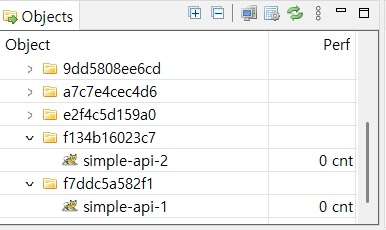
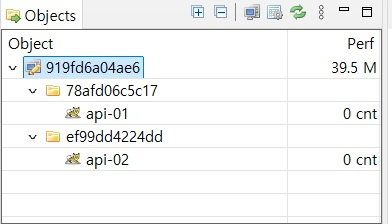
스카우터 포스팅 3편 리라이팅

Changed region(s): [[0.0, 0.0, 1.0, 1.0], [0.4663, 0.0, 0.9637, 0.0938], [0.9948, 0.0, 1.0, 0.0312]]

diff --git a/_posts/2026-08-03-paygerduty3.md b/_posts/2026-08-03-paygerduty3.md
@@ -11,37 +11,19 @@ tags:
   - 자바
 ---
 
-모니터링 대상 애플리케이션에 `Scouter Agent` 연동이 완료되었습니다. 이제 `Scouter Server`에는 애플리케이션의 운영 정보가 실시간으로 수집됩니다.
-
-이번에는 `Scouter Client`를 설치하고, 수집된 운영 정보를 확인하는 방법을 살펴보겠습니다.
+`Scouter Agent`는 모니터링 대상 애플리케이션의 운영 정보를 수집하여 `Scouter Server`로 전송합니다. 사용자는 `Scouter Client`를 통해 `Scouter Server`에 접속하여 수집된 운영 정보를 실시간으로 확인할 수 있습니다.
 
 ---
 
 ## 1. Scouter Client 준비
 
-`Scouter Client`를 통해 `Scouter Server`에 접속해보겠습니다.
+앞선 포스팅에서 사용했던 Scouter 2.20.0 배포 파일인 `scouter-all-2.20.0.tar.gz`에는 Scouter Client가 포함되어 있지 않습니다.
 
-먼저 `Scouter Client`를 다운로드하고 실행합니다.
-
----
-
-### 1.1. Scouter Client 다운로드
-
-이전 포스팅과 동일하게 `Scouter` 프로젝트의 공식 GitHub 저장소의 `release` 브랜치에서 `2.17.1` 태그를 선택했습니다.
-
-* [https://github.com/scouter-project/scouter](https://github.com/scouter-project/scouter)
-
-<img class="sub-image" src="/assets/images/scouter-release-tags.jpg" alt="Scouter 프로젝트 Release 브랜치의 Tag 목록">
-
-그리고 페이지 하단의 **Assets**에서 `scouter.client.product-win32.win32.x86_64.zip` 파일을 다운로드했습니다.
-
-<img class="sub-image" src="/assets/images/scouter-assets2.jpg" alt="Scouter 2.17.1 배포 버전의 Assets 목록">
-
-운영체제에 따라 제공되는 Client 파일이 다르므로 Windows가 아니라면 자신의 운영체제에 맞는 패키지를 다운로드하면 됩니다.
+따라서 Scouter 공식 GitHub의 [v2.20.0 Releases 페이지](https://github.com/scouter-project/scouter/releases/tag/v2.20.0)에서 운영체제에 맞는 `Scouter Client`를 별도로 다운로드했습니다. 사용하는 운영체제가 Windows인 경우에는 `scouter.client.product-win32.win32.x86_64.zip` 파일을 선택하면 됩니다.
 
 ---
 
-### 1.2. 압축 해제
+### 1.1. Scouter Client 파일 배치
 
 다운로드한 파일의 압축을 해제하면 `scouter.client` 디렉터리가 생성됩니다.
 
@@ -51,11 +33,11 @@ tags:
 
 ---
 
-### 1.3. Scouter Client 실행
+### 1.2. Scouter Client 실행
 
-그리고 `scouter.client` 디렉터리에 있는 `scouter.exe` 파일을 실행했습니다. 하지만 기대와 다르게 Windows의 PC 보호 경고창이 나타났습니다. `Scouter Client`가 출처를 알 수 없는 애플리케이션으로 분류되어 실행이 차단되는 것 같았습니다. 
+`scouter.client` 디렉터리에서 `scouter.exe` 파일을 실행하면 기대와 다르게 Windows의 PC 보호 경고창이 나타났습니다. `Scouter Client`가 출처를 알 수 없는 애플리케이션으로 분류되어 실행이 차단되기 때문입니다.
 
-하지만 경고 메시지 하단의 추가정보를 클릭하면 실행 버튼을 활성화할 수 있습니다.
+이런 경우에는 경고 메시지 하단의 추가 정보를 클릭하면 실행 버튼을 활성화할 수 있습니다. 하지만 실행 버튼을 클릭하기 전에 공식 GitHub 저장소에서 다운로드한 파일인지 반드시 확인하는 것이 안전합니다.
 
 <div class="image-row">
   <figure>
@@ -69,96 +51,79 @@ tags:
   </figure>
 </div>
 
-**주의**
-
-> 실행 버튼을 클릭하기 전에 공식 GitHub 저장소에서 다운로드한 파일인지 반드시 확인하는 것이 안전합니다.
-
 실행 버튼을 클릭하자 `Scouter Client`의 로그인 화면이 나타났습니다.
 
 <img class="main-image" src="/assets/images/scouter.login.png" alt="scouter 서버 정보 입력창">
 
-`Server Address`에는 `Scouter Server`가 실행되고 있는 주소인 192.168.56.13:6100을 입력했습니다. 또한 `ID`와 `Password`에는 기본 계정인 `admin` / `admin`을 입력했습니다. 그리고 OK 버튼을 클릭해서 정상적으로 로그인할 수 있었습니다.
+`Server Address`에는 `Scouter Server`가 실행되고 있는 서버의 IP(192.168.56.13:6100)를 입력하고, `ID`와 `Password`에는 기본 계정인 `admin` / `admin`을 입력했습니다. OK 버튼을 클릭하자 정상적으로 로그인할 수 있었습니다.
+
+**참고**
+
+> 실제 운영 환경에서는 기본 비밀번호를 그대로 사용하지 않는 것이 좋습니다.
 
 ---
 
 ## 2. 운영 정보 확인
 
-로그인이 완료되면 Scouter Client에서 서버 전체의 상태와 선택된 애플리케이션의 상태를 함께 확인할 수 있습니다.
+로그인이 완료되면 `Scouter Client`에서 서버 전체의 상태와 선택된 애플리케이션의 상태를 함께 확인하는 기본 화면이 제공됩니다.
 
 <img class="sub-image" src="/assets/images/scouter1.jpg" alt="Scouter Client 기본 모니터링 화면">
-
-기본 화면에는 Linux 서버의 CPU, 메모리, 디스크, 네트워크 등 서버 전체의 자원 사용 현황이 표시됩니다.
-
-또한 Heap Memory, Active Service, XLog와 같은 애플리케이션 수준의 정보도 함께 표시되며, 이러한 정보는 Object Tree에서 선택된 애플리케이션을 기준으로 제공됩니다.
 
 ---
 
 ### 2.1. Object Tree
 
-좌측의 Object Tree에서 `Scouter Server`에 등록되어 있는 모니터링 대상 애플리케이션의 목록을 확인하고 선택할 수 있습니다.
+Object Tree 창에서는 `Scouter Server`가 운영 정보를 수집하고 있는 모니터링 대상 애플리케이션의 목록을 확인하고 선택할 수 있습니다.
 
-<img class="main-image" src="/assets/images/objecttree.jpg" alt="Scouter Object Tree">
+<img class="main-image" src="/assets/images/objecttree.jpg" alt="Object Tree">
 
-위 화면을 보면 많은 애플리케이션이 표시되어 있습니다. 하지만 현재 실행되고 있는 애플리케이션은 다음의 두 개뿐입니다.  
+현재 모니터링 대상 애플리케이션은 다음과 같습니다.  
 
-* f7ddc5a582f1 → simple-api-1
-* f134b16023c7 → simple-api-2
+* `78afd06c5c17` → `api-01`
+* `ef99dd4224dd` → `api-02`
 
-나머지 항목은 토이프로젝트를 진행하면서 생성했던 애플리케이션 컨테이너들입니다. 현재는 실행이 종료되었지만, Scouter는 이전에 수집했던 Object 정보를 유지하기 때문에 Object Tree에 계속 남아 있습니다.
+`78afd06c5c17`, `ef99dd4224dd`은 애플리케이션 컨테이너에 부여된 **hostname**입니다. `Scouter Agent` 연동 이후에 애플리케이션 컨테이너의 실행과 종료를 반복했다면, 더 많은 애플리케이션 정보가 Object Tree에 남아 있을 수 있습니다. 애플리케이션 컨테이너가 종료되더라도 `Scouter Server`에는 이전에 수집된 정보가 일정 기간 남아 있을 수 있기 때문입니다.
 
-앞부분의 `f7ddc5a582f1`, `f134b16023c7`은 Docker가 컨테이너에 부여한 **hostname**입니다. 뒤에 표시되는 `simple-api-1`, `simple-api-2`는 Docker Compose의 `JAVA_TOOL_OPTIONS`를 통해 `-Dobj_name`으로 지정한 이름입니다. 동일한 호스트에서 여러 애플리케이션 인스턴스를 실행하더라도 `obj_name`을 통해 각 인스턴스를 쉽게 구분할 수 있습니다.
+`api-01`, `api-02`는 애플리케이션 컨테이너를 구분하기 위해 Docker Compose의 `JAVA_TOOL_OPTIONS`를 통해 `-Dobj_name`으로 지정했던 이름입니다. 
 
 ---
 
-### 2.2. CPU - Linux(서버의 CPU 사용률)
+### 2.2. Active Service EQ(현재 처리 중인 요청)
 
-CPU - Linux 창에서는 `Scouter Agent`가 실행 중인 Linux 서버의 CPU 사용률을 실시간으로 확인할 수 있습니다.
+Active Service EQ 창에서는 현재 처리 중인 요청(Active Service)의 개수 변화를 실시간으로 확인할 수 있습니다.
 
-<img class="main-image" src="/assets/images/cpu.jpg" alt="CPU - Linux">
+<img class="main-image" src="/assets/images/active-service.jpg" alt="Active Service EQ">
 
-이 그래프는 특정 애플리케이션이 아니라 서버 전체의 CPU 사용률을 나타냅니다. 따라서 Object Tree에서 `simple-api-1`이나 `simple-api-2`를 선택하지 않아도 항상 표시됩니다.
+현재는 모니터링 대상 애플리케이션으로 유입되는 요청이 없는 상태이기 때문에 처리 중인 요청의 개수도 0으로 표시됩니다. 하지만 많은 요청이 동시에 유입되거나, 일부 요청의 처리 시간이 길어지면 처리 중인 요청의 개수가 빠르게 증가하는 모습을 확인할 수 있습니다.
 
-CPU 사용률이 지속적으로 높게 유지된다면 서버 전체에 부하가 발생하고 있는 상황일 수 있습니다. 반대로 CPU 사용률은 낮은데 특정 애플리케이션의 응답 시간이 느리다면 애플리케이션 내부의 병목이나 외부 시스템 호출을 의심해볼 수 있습니다.
-
-현재는 두 개의 애플리케이션이 동일한 Linux 서버에서 실행되고 있기 때문에 CPU - Linux 창은 하나만 표시됩니다.
+만약 이 수치가 지속적으로 높은 상태를 유지한다면, 애플리케이션이 요청을 제때 처리하지 못하고 있을 가능성이 있습니다. 이러한 경우에는 데이터베이스 조회 지연, 외부 API 호출 지연, 스레드 부족, 락 경합 등 요청 처리가 지연되는 원인이 없는지 함께 확인해 보는 것이 좋습니다.
 
 ---
 
 ### 2.3. Heap Used(JVM Heap 사용량)
 
-Heap Memory 창에서는 Object Tree에서 선택된 애플리케이션의 JVM Heap 사용량을 실시간으로 확인할 수 있습니다.
+Heap Used 창에서는 Object Tree에서 선택된 애플리케이션의 JVM Heap 사용량 변화를 실시간으로 확인할 수 있습니다.
 
-로그인 직후에는 `Scouter Client`가 기본적으로 하나의 애플리케이션을 선택하기 때문에 별도로 선택하지 않아도 Heap 사용량이 표시됩니다. 다른 애플리케이션을 선택하면 해당 애플리케이션의 Heap 사용량으로 화면이 변경됩니다.
+<img class="main-image" src="/assets/images/heap-memory.jpg" alt="Heap Used">
 
-<img class="main-image" src="/assets/images/heap-memory.jpg" alt="Heap Memory">
+일반적으로 요청을 처리하면서 점차 증가하다가, Garbage Collection(GC)이 수행되면 사용하지 않는 객체가 정리되면서 다시 감소하는 모습을 확인할 수 있습니다.
 
-그래프는 시간이 지남에 따라 Heap 사용량이 어떻게 변화하는지를 보여줍니다. 일반적으로 요청을 처리하면서 점차 증가하다가, Garbage Collection(GC) 이 수행되면 사용하지 않는 객체가 정리되면서 다시 감소하는 모습을 확인할 수 있습니다.
+만약 Heap 사용량이 지속적으로 증가하고 GC 이후에도 거의 줄어들지 않는다면 메모리 누수(Memory Leak)를 의심해볼 수 있습니다. 또한 Heap 사용량이 최대치에 자주 도달한다면 애플리케이션의 메모리 사용 패턴과 GC 동작을 분석하고, 필요한 경우 JVM Heap 크기가 적절한지도 함께 검토할 필요가 있습니다.
 
-Heap 사용량이 지속적으로 증가하고 GC 이후에도 거의 줄어들지 않는다면 메모리 누수(Memory Leak)를 의심해볼 수 있습니다. 또한 Heap 사용량이 최대치에 자주 도달한다면 JVM Heap 크기를 조정하거나 애플리케이션의 메모리 사용 패턴을 분석할 필요가 있습니다.
+**참고**
 
----
-
-### 2.4. Active Service(현재 처리 중인 요청)
-
-Active Service 창에서는 현재 처리 중인 요청(Active Service)의 개수를 실시간으로 확인할 수 있습니다.
-
-<img class="main-image" src="/assets/images/active-service.jpg" alt="Active Service">
-
-그래프에는 시간에 따른 Active Service의 변화가 표시됩니다. 위 화면은 애플리케이션으로 유입되는 요청이 없는 상태에서 캡처한 화면이므로 Active Service도 0으로 표시됩니다.
-
-반대로 많은 요청이 동시에 유입되거나 일부 요청의 처리 시간이 길어지면 Active Service가 빠르게 증가하는 모습을 확인할 수 있습니다.
-
-만약 Active Service가 지속적으로 높은 상태를 유지한다면 애플리케이션이 요청을 제때 처리하지 못하고 있을 가능성이 있습니다. 이 경우에는 데이터베이스 조회 지연, 외부 API 호출 지연, 스레드 부족, 락 경합 등 요청 처리가 지연되는 원인이 없는지 함께 확인해 보는 것이 좋습니다.
+> Object Tree에서 애플리케이션을 클릭하면 모니터링할 애플리케이션을 선택하거나 선택을 해제할 수 있습니다.
 
 ---
 
-### 2.5. XLog(요청 처리 이력)
 
-XLog는 애플리케이션에서 처리된 요청의 실행 이력을 확인할 수 있는 기능입니다.
+### 2.4. XLog(요청 처리 이력)
+
+XLog 창에서는 애플리케이션에서 처리된 요청의 실행 이력을 확인할 수 있습니다.
 
 <img class="main-image" src="/assets/images/xlog.jpg" alt="XLog">
 
-앞에서 살펴본 Active Service가 **현재 처리 중인 요청**을 보여준다면, XLog는 **처리가 완료된 요청의 실행 결과**를 보여줍니다.
+Active Service EQ 창에서는 **현재 처리 중인 요청**을 보여주지만, XLog 창에서는 **처리가 완료된 요청의 실행 결과**를 보여줍니다.
 
 각 요청은 하나의 점(Point)으로 표시되며, 점의 위치를 통해 요청이 발생한 시각과 처리 시간을 직관적으로 확인할 수 있습니다. 점이 위쪽에 위치할수록 요청 처리 시간이 길다는 의미이므로, 응답이 느린 요청을 한눈에 찾을 수 있습니다. 특정 요청을 더블 클릭하면 해당 요청의 상세 실행 정보도 확인할 수 있습니다.
 
@@ -166,9 +131,9 @@ XLog는 애플리케이션에서 처리된 요청의 실행 이력을 확인할 
 
 ---
 
-## 3. 마무리
+## 3. 다음 포스팅
 
-`Scouter Client`를 설치하고 기본 모니터링 화면을 통해 운영 정보를 확인하는 방법을 살펴봤습니다.
+이번 포스팅에서는 `Scouter Client`를 설치하고, 실행해보면서 주요 창의 기능에 대해서 알아봤습니다.
 
-지금까지는 모니터링 화면의 구성과 각 지표의 의미를 이해하는 과정이었다면, 다음 포스팅에서는 실제 부하를 발생시키면서 운영 정보를 활용해 장애를 분석하는 과정을 살펴보겠습니다.
+다음 포스팅에서는 모니터링 대상 애플리케이션에 실제로 부하를 발생시키고, 운영 정보의 변화가 어떻게 나타나는지 확인해보겠습니다.
 

diff --git a/_posts/2026-07-26-paygerduty.md b/_posts/2026-07-26-paygerduty.md
@@ -90,9 +90,9 @@ $ docker pull scouterapm/scouter-server:2.17.1
 ### 2.2. Scouter 2.20.0 배포 파일 다운로드
 {: #scouter-download }
 
-Docker Hub에서는 Scouter Server 2.20.0 버전의 공식 이미지를 제공하지 않았기 때문에, 2.20.0 배포 파일을 이용해 Docker 이미지를 직접 생성하기로 했습니다. 
+Docker Hub에서는 `Scouter Server` 2.20.0 버전의 공식 이미지를 제공하지 않았기 때문에, 2.20.0 배포 파일을 이용해 Docker 이미지를 직접 생성하기로 했습니다. 
 
-`Scouter` 공식 GitHub의 Releases 페이지에서 [v2.20.0](https://github.com/scouter-project/scouter/releases/tag/v2.20.0)를 선택하면 해당 버전의 Releases 페이지로 이동합니다. 
+Scouter 공식 GitHub의 Releases 페이지에서 [v2.20.0](https://github.com/scouter-project/scouter/releases/tag/v2.20.0)를 선택하면 해당 버전의 Releases 페이지로 이동합니다. 
 
 페이지 하단에 위치한 Assets에서 Docker 이미지 생성에 필요한 `scouter-all-2.20.0.tar.gz` 파일을 다운로드 받았습니다.
 

diff --git a/_posts/2026-08-10-paygerduty4.md b/_posts/2026-08-10-paygerduty4.md
@@ -26,6 +26,9 @@ tags:
   - Ramp-up Period : 10s
   - Loop Count : Infinite
 - HTTP Request
+  - Protocol : http
+  - Server IP : 192.168.56.11
+  - Port : 8081
   - GET /api/server
 
 이 테스트의 목적은 애플리케이션에 요청을 집중시켜 응답 지연 현상을 재현하는 것입니다. 따라서 단일 API를 반복 호출하는 단순한 시나리오로 테스트를 진행했습니다.
@@ -33,6 +36,8 @@ tags:
 ---
 
 ## 2. CPU 사용률 변화
+
+
 
 ---
 
